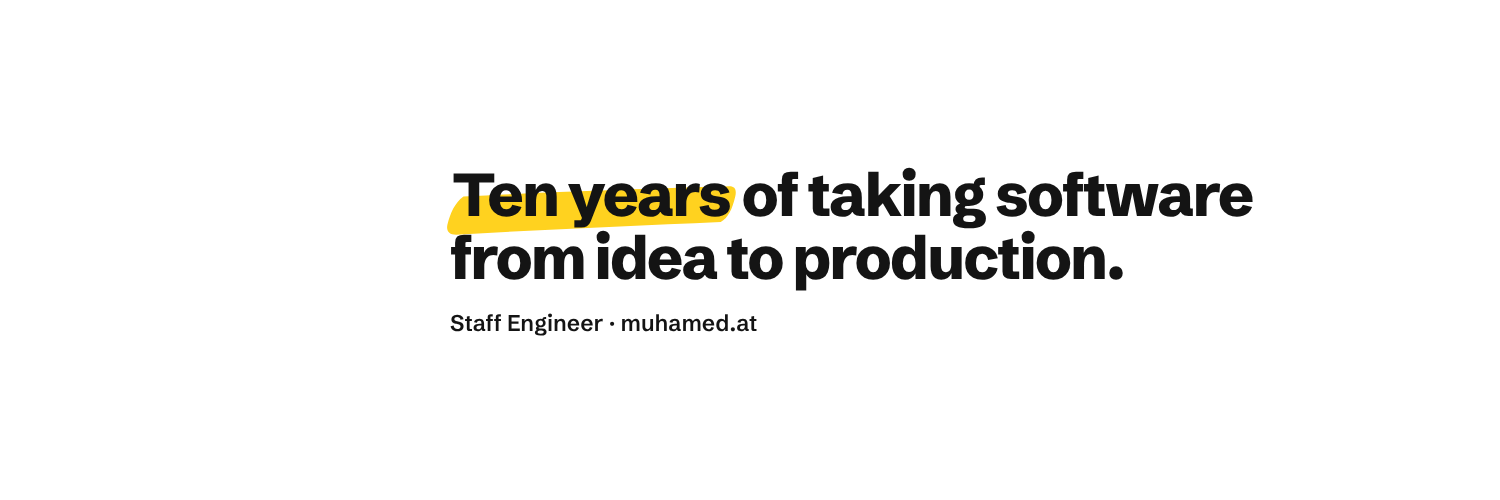
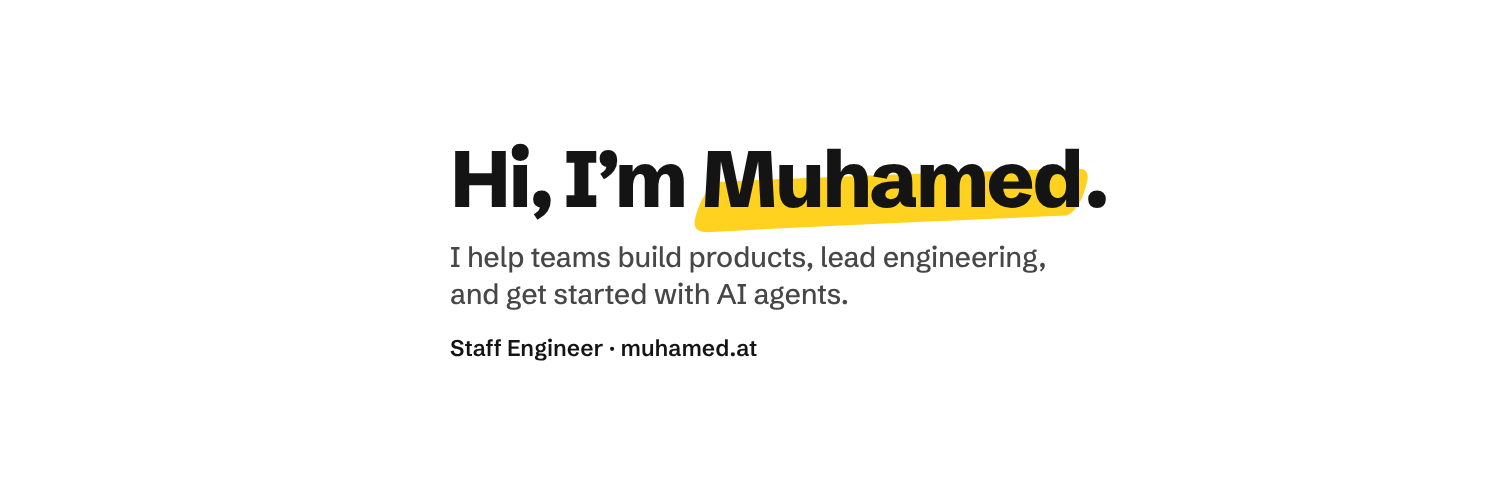
home: greet with "Hi, I’m Muhamed." and say how I help
The owner liked "Ten years of taking software from idea to production."
but felt many people now use lines like it, and asked for something
simple and personal: who he is and how he could help. The hero headline
is the greeting, with "Muhamed" on the highlighter, and the lead says
"I’m a Staff Engineer in Vienna. If your team needs someone to build a
product, lead its engineering, or get started with AI agents, I can
help.", each his pick from options. The About page's heading, which was
the same greeting, becomes "About me".

The share card and the LinkedIn and X headers carry the greeting over
one line, "I help teams build products, lead engineering, and get
started with AI agents."; the three images are re-rendered and their
alt texts follow. PRODUCT.md's positioning says the same.

Implements the twenty-eighth change of
wiki/muhamed.github.io/adrs/professional-homepage-with-brain-and-writing.md
and the fifth change of
wiki/muhamed.github.io/adrs/amber-portrait-and-brand-kit.md.

Claude-Session: https://claude.ai/code/session_01XscJoG4SmD7LMe8LdYaRQg

Changed region(s): [[0.276, 0.27, 0.8587, 0.72]]

diff --git a/.github/scripts/render-social-images.js b/.github/scripts/render-social-images.js
@@ -80,11 +80,20 @@ function servicePost(s, w, h) {
   </div>`;
 }
 
+// The site's greeting (files/_data/home.yml, hero.title) and, under it, the
+// hero's lead as one sentence: how I help. Update both here when they change.
+// Its line breaks are set by hand, for the card and for the headers.
+const HELP_CARD = 'I help teams build products,<br>lead engineering, and get started<br>with AI agents.';
+const HELP_HEADER = 'I help teams build products, lead engineering,<br>and get started with AI agents.';
+
 function share(w, h) {
   return `<div class="stage" style="--w:${w}px;--h:${h}px;display:grid;grid-template-columns:1fr 400px;">
     <div style="padding:64px 56px 56px 72px;display:grid;grid-template-rows:auto 1fr auto">
       <div class="rule" style="padding-top:18px"><span class="wordmark" style="font-size:26px">Muhamed Isabegovic</span></div>
-      <h1 style="font-size:72px;align-self:center"><mark>Ten years</mark> of taking software from idea to production.</h1>
+      <div style="align-self:center">
+        <h1 style="font-size:80px;white-space:nowrap">Hi, I’m <mark>Muhamed</mark>.</h1>
+        <p class="muted" style="font-size:30px;line-height:1.35;margin-top:26px">${HELP_CARD}</p>
+      </div>
       <div class="muted" style="font-size:22px;font-weight:500">Staff Engineer · Vienna · <b style="color:var(--ink)">muhamed.at</b></div>
     </div>
     <div style="background:var(--dark)"><img src="${photo}" alt="" style="width:100%;height:100%;object-fit:cover;object-position:50% 30%"></div>
@@ -125,11 +134,13 @@ function header(w, h, safeLeft) {
   const u = w / 1584;
   // White, like the site, with its hand-drawn highlighter (owner, 2026-10-29;
   // was dark, and amber before that, which almost matched the photo).
-  // Its line is the site headline, so visitors from LinkedIn or X read the
-  // same line first on the site.
+  // Its lines are the site's greeting and how I help, so visitors from
+  // LinkedIn or X read the same words first on the site (owner, 2026-11-21;
+  // was "Ten years of taking software from idea to production.").
   return `<div class="stage" style="--w:${w}px;--h:${h}px;background:var(--paper);color:var(--ink);display:flex;align-items:center;padding:0 ${64 * u}px 0 ${safeLeft}px">
     <div>
-      <h1 style="font-size:${64 * u}px;line-height:1.04"><mark>Ten years</mark> of taking software<br>from idea to production.</h1>
+      <h1 style="font-size:${84 * u}px;line-height:1.04;white-space:nowrap">Hi, I’m <mark>Muhamed</mark>.</h1>
+      <p class="muted" style="margin-top:${20 * u}px;font-size:${30 * u}px;line-height:1.3;font-weight:500;letter-spacing:-.01em">${HELP_HEADER}</p>
       <p style="margin-top:${22 * u}px;font-size:${24 * u}px;font-weight:600">Staff Engineer · muhamed.at</p>
     </div>
   </div>`;

diff --git a/files/brand.html b/files/brand.html
@@ -45,7 +45,7 @@ description: Photos, banners, colours, typeface and bios of Muhamed Isabegovic, 
     <div class="brand-banners">
       {% for bn in b.banners %}
       <figure class="brand-banner">
-        <img src="{{ site.baseurl }}/{{ bn.file }}" alt="{{ bn.name }}: Ten years of taking software from idea to production, on white" loading="lazy">
+        <img src="{{ site.baseurl }}/{{ bn.file }}" alt="{{ bn.name }}: Hi, I’m Muhamed. I help teams build products, lead engineering, and get started with AI agents. On white" loading="lazy">
         <figcaption>
           <strong>{{ bn.name }}</strong>
           <span>{{ bn.note }}</span>

diff --git a/files/_includes/meta.html b/files/_includes/meta.html
@@ -11,5 +11,5 @@
 {% if page.image == "/images/social/share.png" %}
 <meta property="og:image:width" content="1200"/>
 <meta property="og:image:height" content="630"/>
-<meta property="og:image:alt" content="Muhamed Isabegovic, Staff Engineer, Vienna: Ten years of taking software from idea to production."/>
+<meta property="og:image:alt" content="Muhamed Isabegovic, Staff Engineer, Vienna: Hi, I’m Muhamed. I help teams build products, lead engineering, and get started with AI agents."/>
 {% endif %}

diff --git a/wiki/muhamed.github.io/adrs/professional-homepage-with-brain-and-writing.md b/wiki/muhamed.github.io/adrs/professional-homepage-with-brain-and-writing.md
@@ -543,6 +543,28 @@ files/llms.txt, files/_includes/person-jsonld.html). Every new claim is on the
 owner's word, not yet in the evidence store. About, Services and the brand
 kit's bios are unchanged.
 
+**2026-11-21, twenty-eighth change: a greeting.** The hero headline becomes
+"Hi, I’m Muhamed." (was "Ten years of taking software from idea to
+production."), with "Muhamed" on the highlighter, and the lead says who he is
+and how he helps, spoken to the visitor: "I’m a Staff Engineer in Vienna. If
+your team needs someone to build a product, lead its engineering, or get
+started with AI agents, I can help." (source: files/_data/home.yml). The
+three kinds of help follow the services below it: Build, Lead and AI-native.
+This reverses one point of the twenty-fourth change, where a lead spoken to
+the visitor read as a pitch and was cut; the owner chose it this time over
+three drafts that spoke about him. The greeting was the About page's heading
+since the twenty-sixth change, so About's heading becomes "About me"; its
+text is unchanged (source: files/_pages/about.md). The share card and the
+LinkedIn and X headers carry the greeting over one sentence, "I help teams
+build products, lead engineering, and get started with AI agents.", with its
+line breaks set by hand (source: .github/scripts/render-social-images.js);
+the three images are re-rendered, and the share image's alt text and the
+banners' alt text on `/brand/` say the same (source:
+files/_includes/meta.html, files/brand.html). "Ten years" leaves the first
+screen; it stays in About's Work section, the Work page's intro and the
+stack's intro. The caption under the portrait, the buttons and the line under
+them are unchanged.
+
 ## Approval
 
 The fifteenth change was chosen by the owner in session on 2026-10-21, one
@@ -648,6 +670,17 @@ build. Decision models are, in his words, the "Decisions api through gpt luna
 6", a system one model; he built MCP servers and used existing ones, with
 observability of both agents and pipelines. On the full draft: "Assumptions
 are correct, keep three pages."
+
+The twenty-eighth change was asked for by the owner in session on
+2026-11-21: "The title 'Ten years of taking software from idea to
+production.' Is nice... But I have a feeling so many people use it since AI
+suggests it... Let's keep it simple and personal, who I am and how I could
+help". From options he chose "Just a greeting" for the headline, with no
+preference on which help to lead with, and "Everything" for how far the line
+travels (hero, share card and both headers). From previews of the built page
+and the three images he chose the lead "Spoken to the visitor" and "About me"
+for the About page's heading. The wording of the lead and of the images' one
+line is the agent's draft, for the owner to adjust.
 
 ## Related
 

diff --git a/log/log.md b/log/log.md
@@ -345,3 +345,5 @@
 
 - site, cv: the homepage ADR's twenty-seventh change, on the owner's ask ("we can add more skills and some generic info not revealing client specific info"): the Symphony work, by technology and role only. The CV's "Staff Engineer · Symphony" gains four bullets (a proof of concept taken over with his team and brought to stable production, with observability for the pipelines and the agents; data pipelines on Azure and Microsoft Fabric in a medallion architecture with PySpark notebooks, and knowledge graphs in FalkorDB; agents that enrich and classify the data on OpenAI models in Microsoft Foundry, with OpenAI's Decisions API and MCP servers; AI-native delivery in his team and with the client's engineers). Skills gain a Data group and items under Product and AI, Infrastructure and DevEx, and Ways of working; `files/_data/cv.json` and `files/cv.json` are re-rendered by `render-cv-data.js` with no drift. The PDF is re-rendered with headless Chromium from `_cv/cv.html`: still three A4 pages (owner's choice), with the "Founder and organiser" entry allowed to run from page 1 to page 2. The homepage stack (four pills, intro, last line), three Work page proof points, llms.txt and the JSON-LD follow. Every new claim is on the owner's word, not yet in the evidence store. The owner approved the full draft: "Assumptions are correct, keep three pages." The site builds, and the homepage shows no sideways scroll at 390 px.
    by: agent
+- site, brand: the homepage ADR's twenty-eighth change, on the owner's ask ("so many people use it since AI suggests it... Let's keep it simple and personal, who I am and how I could help"): the hero headline is "Hi, I’m Muhamed." (was "Ten years of taking software from idea to production."), with "Muhamed" on the highlighter, and the lead is "I’m a Staff Engineer in Vienna. If your team needs someone to build a product, lead its engineering, or get started with AI agents, I can help.", each the owner's pick from options. The About page's heading, which was the same greeting, becomes "About me". The share card and the LinkedIn and X headers (the amber portrait ADR's fifth change) carry the greeting over "I help teams build products, lead engineering, and get started with AI agents."; the three images are re-rendered and their alt texts updated. PRODUCT.md's positioning says the same. Built locally and checked in Chromium at 1440, 820 and 390 px; the headers are not yet uploaded to the profiles.
+   by: agent

diff --git a/PRODUCT.md b/PRODUCT.md
@@ -38,14 +38,16 @@ believing it from evidence they could check, and knowing how to reach him.
 
 ## Positioning
 
-"Ten years of taking software from idea to production" (owner, 2026-10-29;
-was "I build products and lead the teams that ship them"), the same line as
-the white LinkedIn and X headers, with "Ten years" on the hand-drawn
-highlighter the site and every generated image now use. The
-hero's lead, in the About page's words, says what idea to production covers
-(from deciding what to build to running it in production, anywhere in the
-stack) and that he lately works one layer up, with agents writing the code,
-building open-source tools that keep that reliable. Clients hire him to build and lead; AI is one of the
+"Hi, I'm Muhamed." (owner, 2026-11-21; was "Ten years of taking software
+from idea to production", a line he liked but felt many people now use
+because AI suggests it): simple and personal, who he is and how he could
+help, with "Muhamed" on the hand-drawn highlighter the site and every
+generated image use. The hero's lead says who he is and, spoken to the
+visitor, how he helps: "I'm a Staff Engineer in Vienna. If your team needs
+someone to build a product, lead its engineering, or get started with AI
+agents, I can help." The share card and the white LinkedIn and X headers
+carry the greeting over one line, "I help teams build products, lead
+engineering, and get started with AI agents." Clients hire him to build and lead; AI is one of the
 things he builds, not the pitch. His edge is making companies AI-native, in how they
 build and in what they build, with open-source tools he builds and teaches.
 Title, one form everywhere (owner, 2026-10-29): Staff Engineer, the role

diff --git a/wiki/muhamed.github.io/adrs/amber-portrait-and-brand-kit.md b/wiki/muhamed.github.io/adrs/amber-portrait-and-brand-kit.md
@@ -12,7 +12,7 @@ sources:
   - files/_data/home.yml
   - files/README.md
 created: 2026-10-23
-updated: 2026-10-29
+updated: 2026-11-21
 author: pi-brain-agent
 ---
 
@@ -126,6 +126,19 @@ highlighter in ink (source: .github/scripts/render-social-images.js). The
 mockups showed that white has no edge against LinkedIn's white profile card;
 the owner chose it knowing that. On `/brand/` the banners get a hairline so
 they keep their edge on the white page (source: files/assets/site.css).
+
+## Fifth change: banners with the greeting (2026-11-21)
+
+The site's headline is now a greeting, "Hi, I’m Muhamed." (homepage ADR,
+twenty-eighth change), and the owner chose to carry it everywhere, so the
+LinkedIn and X headers follow: the greeting with "Muhamed" on the
+highlighter, over one sentence from the hero's lead, "I help teams build
+products, lead engineering, and get started with AI agents.", over "Staff
+Engineer · muhamed.at" (source: .github/scripts/render-social-images.js).
+They stay white, in the same safe area right of the profile photo. The
+banners' alt text on `/brand/` says the new words (source: files/brand.html).
+The owner uploads the new headers to both profiles himself; until then the
+profiles show the ten-years line.
 
 ## Related
 

diff --git a/wiki/muhamed.github.io/records/amber-portrait-and-brand-kit.md b/wiki/muhamed.github.io/records/amber-portrait-and-brand-kit.md
@@ -73,6 +73,13 @@ PDF are byte-identical to the built ones.
   Isabegovic is a Staff Engineer, based in Vienna." (9 words), Medium with
   the open-source tools and the three conferences (33), Long adding what
   GoatConf is (45) (source: files/_data/brand.yml).
+- 2026-11-21, the ADR's fifth change: the LinkedIn and X headers carry the
+  site's new greeting, "Hi, I’m Muhamed." ("Muhamed" on the highlighter),
+  over "I help teams build products, lead engineering, and get started with
+  AI agents." and "Staff Engineer · muhamed.at" (source:
+  .github/scripts/render-social-images.js). Both rendered without overflow
+  at 1584 × 396 and 1500 × 500; the share card was re-rendered with them.
+  Not yet uploaded to the profiles.
 
 ## Related
 

diff --git a/files/_pages/about.md b/files/_pages/about.md
@@ -1,7 +1,7 @@
 ---
 layout: about
 title: About
-heading: "Hi, I’m Muhamed"
+heading: "About me"
 permalink: /about/
 description: Muhamed Isabegovic grew up in Tuzla and lives in Vienna. He is a Staff Engineer, organises conferences in Bosnia and Austria, and builds open-source tools for teams that write code with AI agents.
 ---
